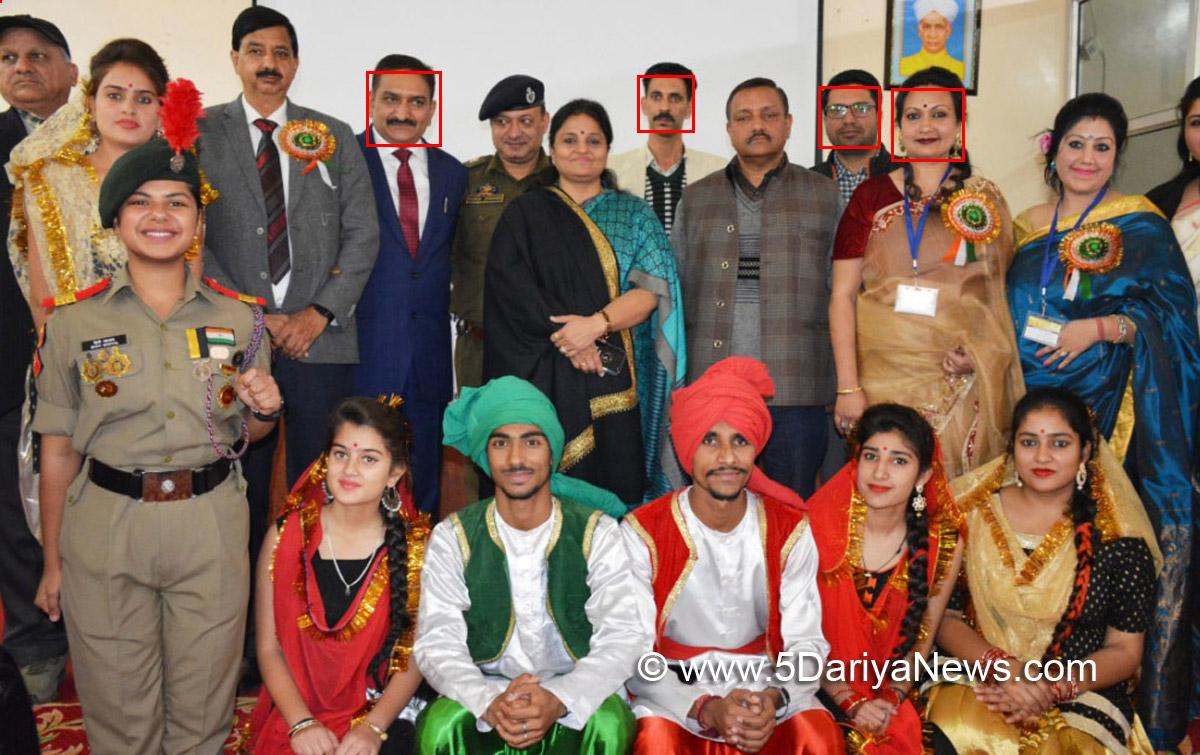
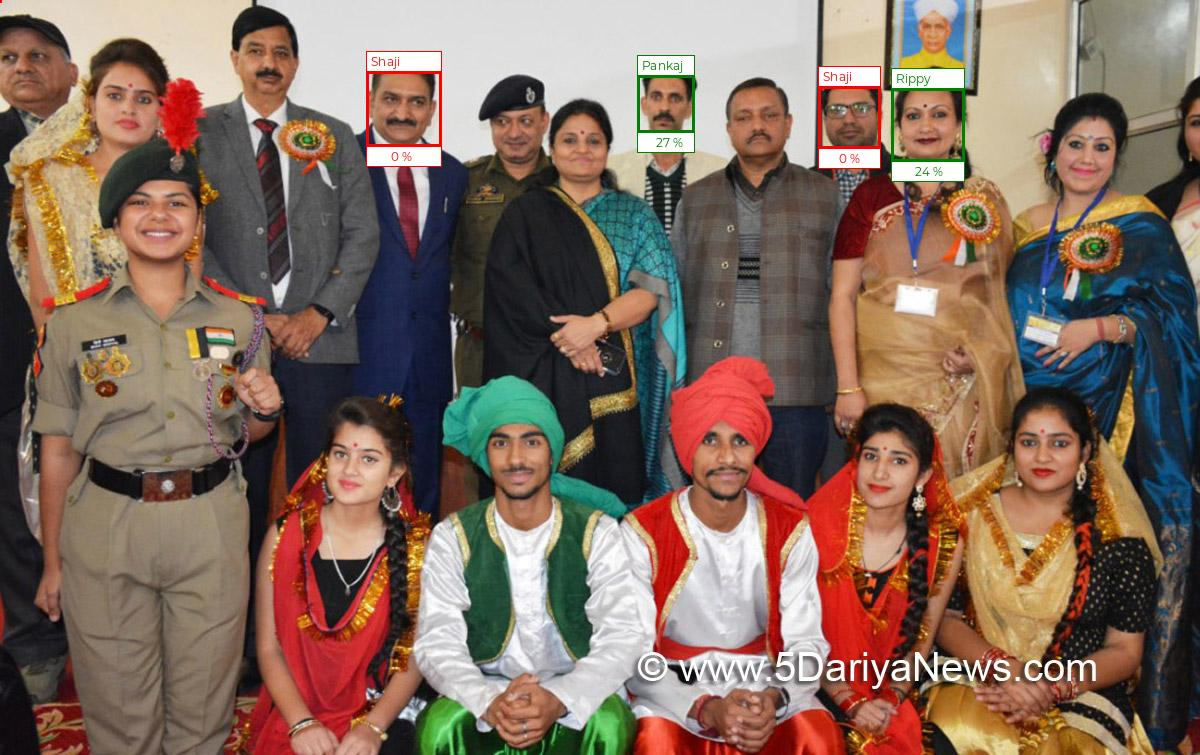
recognition and draw faces

diff --git a/run.py b/run.py
@@ -1,6 +1,6 @@
-import sys
+import sys, os
 from deepface import DeepFace
-from PIL import Image, ImageDraw
+from PIL import Image, ImageDraw, ImageFont
 
 def drawFaces (img, x, y, w, h):
     with Image.open(img) as im:
@@ -12,18 +12,39 @@ def drawFaces (img, x, y, w, h):
 d = DeepFace.find (sys.argv [1], sys.argv [2])
 im = Image.open(sys.argv [1])
 draw = ImageDraw.Draw(im)
+fnt = ImageFont.truetype("/usr/share/fonts/julietaula-montserrat-fonts/Montserrat-Regular.otf", 12)
 
 for face in d:
     try:
+        color = "red"
         guess = face.get ("VGG-Face_cosine") 
-        print (guess [0])
-        if (guess [0] > 0.3):
-            continue
+        probability = 0
+        for fa in guess:
+            if fa > 0.3:
+                continue
+            if probability == 0:
+                probability = fa
+
+        if probability == 0:
+            color = "red"
+        elif (probability < .3):
+            color = "green"
         x = face.get ("source_x")
         y = face.get ("source_y")
         w = face.get ("source_w")
         h = face.get ("source_h")
-        draw.rectangle ([x, y, x + w, y + h], None, "red", 3)
+        name = face.get ("identity")
+        try:
+            for n in name:
+                draw.rectangle ([x, y - 20, x + w, y], "white", color, 1)
+                draw.text((x + 5, y - 17), os.path.basename (n).split (".")[0].title (), font=fnt, fill=color)
+                draw.rectangle ([x, y + h, x + w, y + h + 20], "white", color, 1)
+                draw.text((x + (w / 3), y + h + 3), str (int (round ((probability) * 100, 2))) + " %", font=fnt, fill=color)
+                
+            print ("drawing face...")
+            draw.rectangle ([x, y, x + w, y + h], None, color, 3)
+        except TypeError:
+            print ("error")
     except SystemError:
         print ("error")
     
